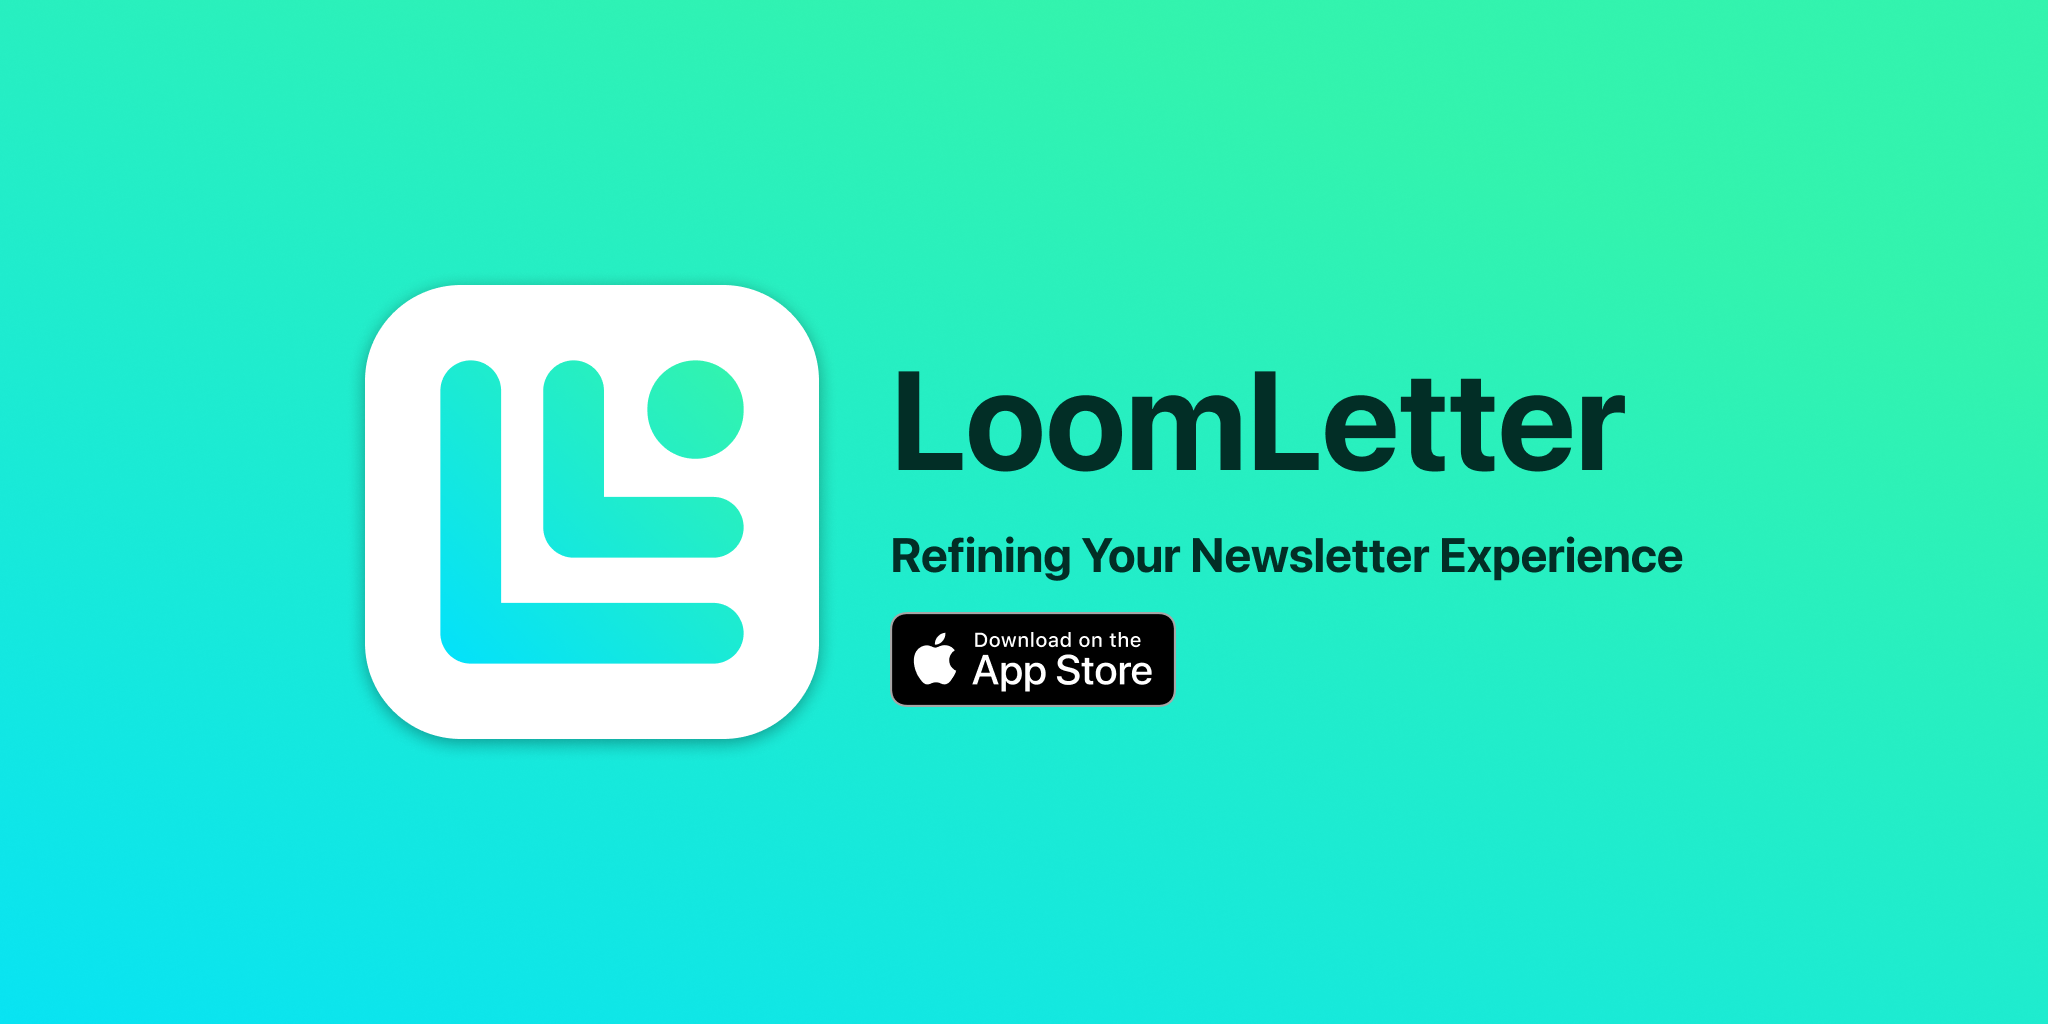
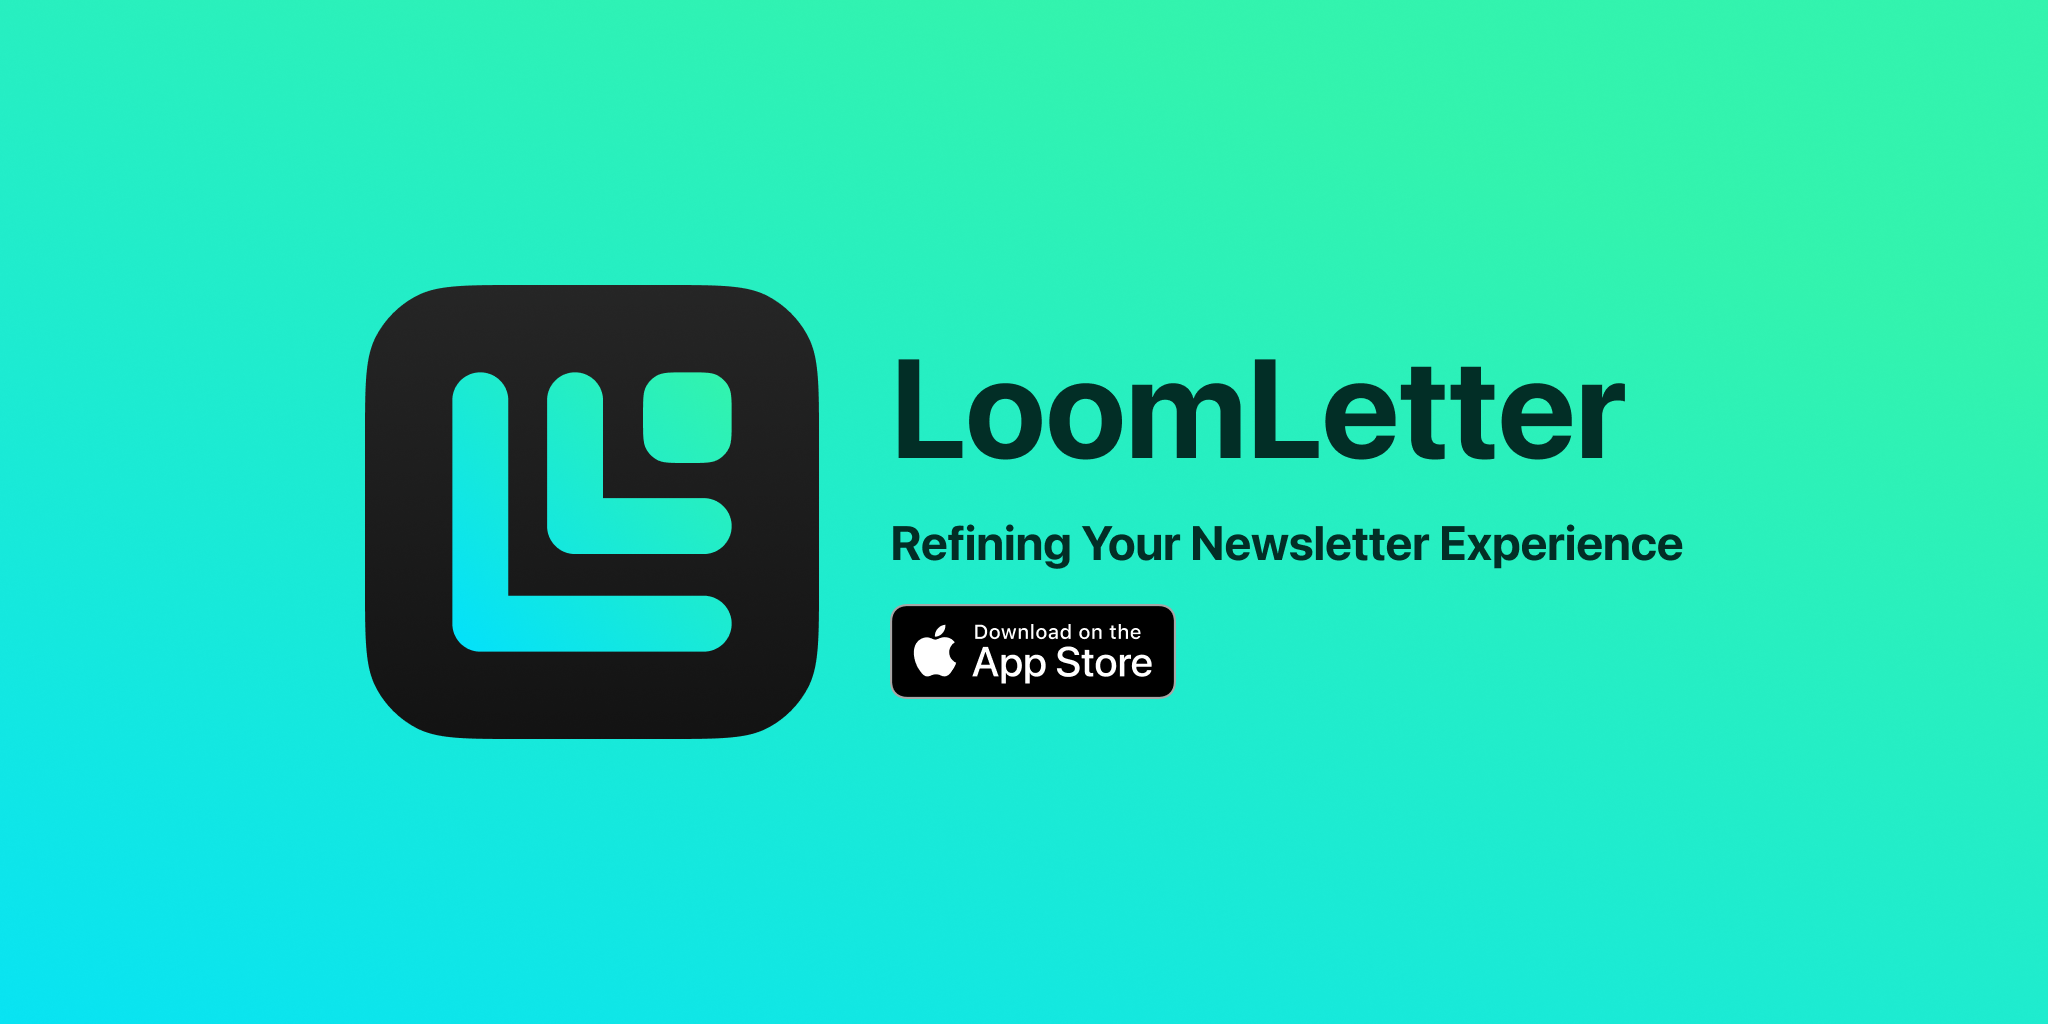
redesign in progress

diff --git a/src/routes/+page.svelte b/src/routes/+page.svelte
@@ -56,189 +56,65 @@
 	};
 </script>
 
-<!-- header -->
-<div class="flex flex-row justify-end gap-4">
-	<a href="/press" class="py-5 md:py-7 px-4 hover:underline text-[#066252]"> Press </a>
-	<a href="/privacy-policy" class="py-5 md:py-7 px-4 hover:underline text-[#066252]">
-		Privacy Policy
-	</a>
-</div>
-
-<!-- Hero -->
-<section class="flex flex-col md:flex-row gap-4 pt-5 md:pt-24 pb-32">
-	<div class="md:hidden flex items-center justify-center">
-		<img src="/logo.svg" alt="LoomLetter Icon" width="60" height="60" />
-	</div>
-	<div class="w-full md:w-[360px] flex-shrink-0">
-		<img src="/iphones.png" class="w-full h-auto" />
-	</div>
-	<div class="w-full flex flex-col gap-3 items-start justify-center">
-		<img src="/logo.svg" alt="LoomLetter Icon" width="60" height="60" class="hidden md:block" />
-		<h1
-			class="w-full font-bold text-4xl md:text-5xl text-[#066252] leading-[1.2] text-center md:text-left"
-		>
-			Effortlessly catch up on your favorite newsletters
-		</h1>
-
-		<p class="w-full font-normal text-lg md:text-2xl text-[#555555] text-center md:text-left">
-			A Newsletter Reader for your inbox
-		</p>
-
-		<div class="w-full mt-5">
-			<a
-				href="#waitlist"
-				class="block text-center w-full md:w-fit bg-[#32F3AE] text-[#066252] py-4 px-10 rounded-2xl text-lg font-medium transition-all hover:bg-[#066252] hover:text-white"
-			>
-				Join Waitlist
-			</a>
+<section class="w-full py-[120px]">
+	<div class="flex flex-row gap-8 items-center">
+		<div class="w-[502px] shrink-0">
+			<img src="/iphones.png" class="w-full h-auto" />
 		</div>
-	</div>
-</section>
+		<div class="flex-grow flex flex-col gap-5 justify-start">
+			<h1 class="text-6xl -text-gradient font-bold">
+				Stop Letting Your Favorite Newsletters Pile Up
+			</h1>
 
-<!-- Features -->
-<section class="flex flex-col gap-4 pb-32">
-	<div class="grid grid-cols-1 md:grid-cols-2 gap-4 w-full">
-		<div class="bg-[#32F3AE] rounded-3xl px-5 py-5 flex flex-col gap-2">
-			<h2 class="text-[#066252] font-bold text-3xl">Sync with your inbox</h2>
-			<p class="text-[#066252]">
-				Stay up-to-date with all your newsletters as they arrive. LoomLetter securely syncs with
-				your inbox, ensuring your private information stays private.*
-			</p>
-		</div>
-
-		<div class="bg-[#32F3AE] rounded-3xl px-5 py-5 flex flex-col gap-2">
-			<h2 class="text-[#066252] font-bold text-3xl">AI Voice Reading</h2>
-			<p class="text-[#066252]">
-				Transform your reading experience with our AI-powered voice technology. Listen to
-				newsletters in realistic, human-like audio, perfect for staying informed while on the go.
-			</p>
-		</div>
-
-		<div class="bg-[#32F3AE] row-span-2 rounded-3xl px-5 py-5 flex flex-col gap-2">
-			<h2 class="text-[#066252] font-bold text-3xl">Dynamic Widgets</h2>
-			<p class="text-[#066252]">
-				Keep your favorite newsletters at your fingertips. Add widgets to your home screen for quick
-				and easy access at a glance.
-			</p>
-
-			<div class="mt-4 aspect-[53/29] relative">
-				<img
-					src="/widget-preview-1.png"
-					alt="LoomLetter Widget Preview 1"
-					class="w-full h-auto rounded-3xl absolute inset-0 z-10"
-				/>
-				<img
-					src="/widget-preview-2.png"
-					alt="LoomLetter Widget Preview 2"
-					class="w-full h-auto rounded-3xl absolute inset-0 z-20 widget-fade"
-				/>
-			</div>
-		</div>
-
-		<div class="bg-[#32F3AE] rounded-3xl px-5 py-5 flex flex-col gap-2">
-			<h2 class="text-[#066252] font-bold text-3xl">No Sign Up Required</h2>
-			<p class="text-[#066252]">
-				Dive into your newsletters instantly. LoomLetter requires no account creation, making it
-				hassle-free and convenient to use.
-			</p>
-		</div>
-
-		<div class="bg-[#32F3AE] rounded-3xl px-5 py-5 flex flex-col gap-2">
-			<h2 class="text-[#066252] font-bold text-3xl">Offline Support</h2>
-			<p class="text-[#066252]">
-				Read anytime, anywhere. LoomLetter syncs your newsletters early in the morning, so they’re
-				ready whenever you are, even offline.
-			</p>
-		</div>
-	</div>
-	<div class="pt-12">
-		<p class="text-[#696969] text-sm text-center">
-			*We securely store a refresh token to maintain your account connection and ensure seamless
-			access to your newsletters. Your data is still only processed on the device; our servers only
-			handle the token management for the device.
-		</p>
-	</div>
-</section>
-
-<!-- email clients -->
-<section class="flex flex-col gap-4 pb-32">
-	<div class="p-10 rounded-3xl bg-[#F8F8F8]">
-		<div class="grid grid-cols-1 md:grid-cols-3 gap-12 md:gap-4 w-full">
-			<div class="flex flex-col items-center justify-center">
-				<img src="/gmail.png" class="w-[120px] h-[120px] mb-3" />
-				<p class="text-[#066252] font-bold text-lg">Gmail</p>
-				<p class="text-[#2D2D2D]">Supported</p>
-			</div>
-			<div class="flex flex-col items-center justify-center">
-				<img src="/outlook.png" class="w-[120px] h-[120px] mb-3" />
-				<p class="text-[#066252] font-bold text-lg">Microsoft Outlook</p>
-				<p class="text-[#2D2D2D]">Coming Soon</p>
-			</div>
-			<div class="flex flex-col items-center justify-center">
-				<img src="/applemail.png" class="w-[120px] h-[120px] mb-3" />
-				<p class="text-[#066252] font-bold text-lg">Apple Mail</p>
-				<p class="text-[#2D2D2D]">Supported</p>
-			</div>
-		</div>
-	</div>
-</section>
-
-<!-- FAQ -->
-<section class="flex flex-col gap-0 pb-32">
-	<div class="flex flex-col">
-		<h2 class="mb-5 text-4xl font-semibold">Frequently Asked Questions</h2>
-	</div>
-
-	{#each faq as qa}
-		<div class="border-b border-[#E6E6E6] last:border-0 py-5">
-			<p class="font-medium text-2xl mb-3">{qa.question}</p>
-			<p class="text-sm">
-				{qa.answer}
-			</p>
-		</div>
-	{/each}
-</section>
-
-<!-- Waitlist -->
-<section class="flex flex-col gap-0 pb-32" id="waitlist">
-	<div
-		class="gradient-bg rounded-3xl p-12 text-center flex flex-col items-center justify-center relative overflow-clip"
-	>
-		{#if joining}
-			<div
-				transition:fade
-				class="gradient-bg absolute inset-0 w-full h-full z-10 flex items-center justify-center"
-			>
-				<Spinner width="60" height="60" color="#066252" />
-			</div>
-		{:else if joined}
-			<div
-				transition:fade
-				class="gradient-bg absolute inset-0 w-full h-full z-10 flex flex-col items-center justify-center"
-			>
-				<p class="font-bold text-3xl text-[#066252] mb-5">Thank you for joining the waitlist</p>
-				<p class="font-medium text-lg text-[#066252]">
-					You'll be among the first to know when we launch
-				</p>
-			</div>
-		{/if}
-
-		<p class="font-bold text-3xl text-[#066252] mb-5">Join the Waitlist</p>
-
-		<form class="flex flex-row gap-3" on:submit={onJoinWaitList}>
-			<input
-				type="text"
-				class="p-2 bg-white rounded-lg border border-[#066252] outline-[#066252] text-[#066252] md:w-[250px]"
-				placeholder="Enter email address"
-				bind:value={emailAddress}
-			/>
+			<p class="text-2xl text-white">A Newsletter Reader for Busy Professionals</p>
 
 			<button
-				type="submit"
-				class="bg-[#066252] border border-[#066252] px-5 text-white rounded-lg hover:bg-[#02332b]"
+				class="w-fit bg-white/10 hover:bg-white/30 px-6 py-3 rounded-3xl font-bold transition-all"
+				><p class="-text-gradient">Exclusive Early Access</p></button
 			>
-				Join
-			</button>
-		</form>
+		</div>
+	</div>
+</section>
+
+<section class="w-full pb-[200px]">
+	<div class="flex flex-row gap-8 items-center">
+		<div class="flex-grow flex flex-col justify-start">
+			<div class="flex flex-col gap-8 bg-white/10 p-20 rounded-[100px] justify-center items-center">
+				<h1 class="text-6xl -text-gradient font-bold text-center">
+					AI-Powered Newsletter Narration
+				</h1>
+
+				<p class="text-lg text-white text-center">
+					Effortlessly catch up on newsletters while commuting, exercising, or multitasking with
+					LoomLetter’s AI-powered narration. Enjoy hands-free, engaging listening that fits
+					perfectly into your busy lifestyle.
+				</p>
+
+				<button
+					class="w-fit bg-white/10 hover:bg-white/30 px-6 py-3 rounded-3xl font-bold transition-all"
+					><p class="-text-gradient">Listen to a Newsletter</p></button
+				>
+			</div>
+		</div>
+		<div class="w-[390px] shrink-0">
+			<img src="/ai-reading-screenshot.png" class="w-full h-auto" />
+		</div>
+	</div>
+</section>
+
+<section class="w-full pb-[200px]">
+	<div class="flex flex-col gap-20 items-center">
+		<div class="flex-grow flex flex-col gap-8 justify-start">
+			<h1 class="text-6xl -text-gradient font-bold text-center">Never Miss a Newsletter</h1>
+
+			<p class="text-lg text-white text-center w-full md:max-w-[700px]">
+				Effortlessly catch up on newsletters while commuting, exercising, or multitasking with
+				LoomLetter’s AI-powered narration. Enjoy hands-free, engaging listening that fits perfectly
+				into your busy lifestyle.
+			</p>
+		</div>
+		<div class="w-[700px] shrink-0">
+			<img src="notifications.png" class="w-full h-auto" />
+		</div>
 	</div>
 </section>

diff --git a/src/routes/+layout.svelte b/src/routes/+layout.svelte
@@ -108,7 +108,28 @@
 </svelte:head>
 
 <div class="app">
-	<main class="w-full max-w-[800px] px-4 mx-auto">
+	<!-- header -->
+	<div class="flex flex-row justify-between w-full max-w-[1200px] mx-auto px-4 py-10">
+		<a href="/">
+			<div class="flex flex-row gap-5 items-center">
+				<img src="/logo.svg" alt="LoomLetter Icon" width="40" height="40" class="hidden md:block" />
+				<p class="text-3xl font-medium text-white">LoomLetter</p>
+			</div>
+		</a>
+		<div class="flex flex-row justify-end gap-4 py-3">
+			<a href="/press" class="py-2.5 px-6 hover:bg-white/10 text-white rounded-3xl transition-all"
+				>Press</a
+			>
+			<a
+				href="/privacy-policy"
+				class="py-2.5 px-6 hover:bg-white/10 text-white rounded-3xl transition-all"
+			>
+				Privacy Policy
+			</a>
+		</div>
+	</div>
+	<!-- main -->
+	<main class="w-full max-w-[1200px] px-4 mx-auto">
 		<slot />
 	</main>
 	<footer

diff --git a/src/routes/styles.css b/src/routes/styles.css
@@ -3,12 +3,15 @@
 @tailwind utilities;
 
 body {
-    background-color: white;
+    background: linear-gradient(#111111, #000000);
+    min-height: 100vh;
+    ;
 }
 
-.gradient-bg {
-    background-image: url('/gadient-bg.png');
-    background-size: cover;
+.-text-gradient {
+    background: linear-gradient(to right, #32F3AE, #00E0FF);
+    color: transparent;
+    background-clip: text;
 }
 
 @keyframes fadeInOut {
